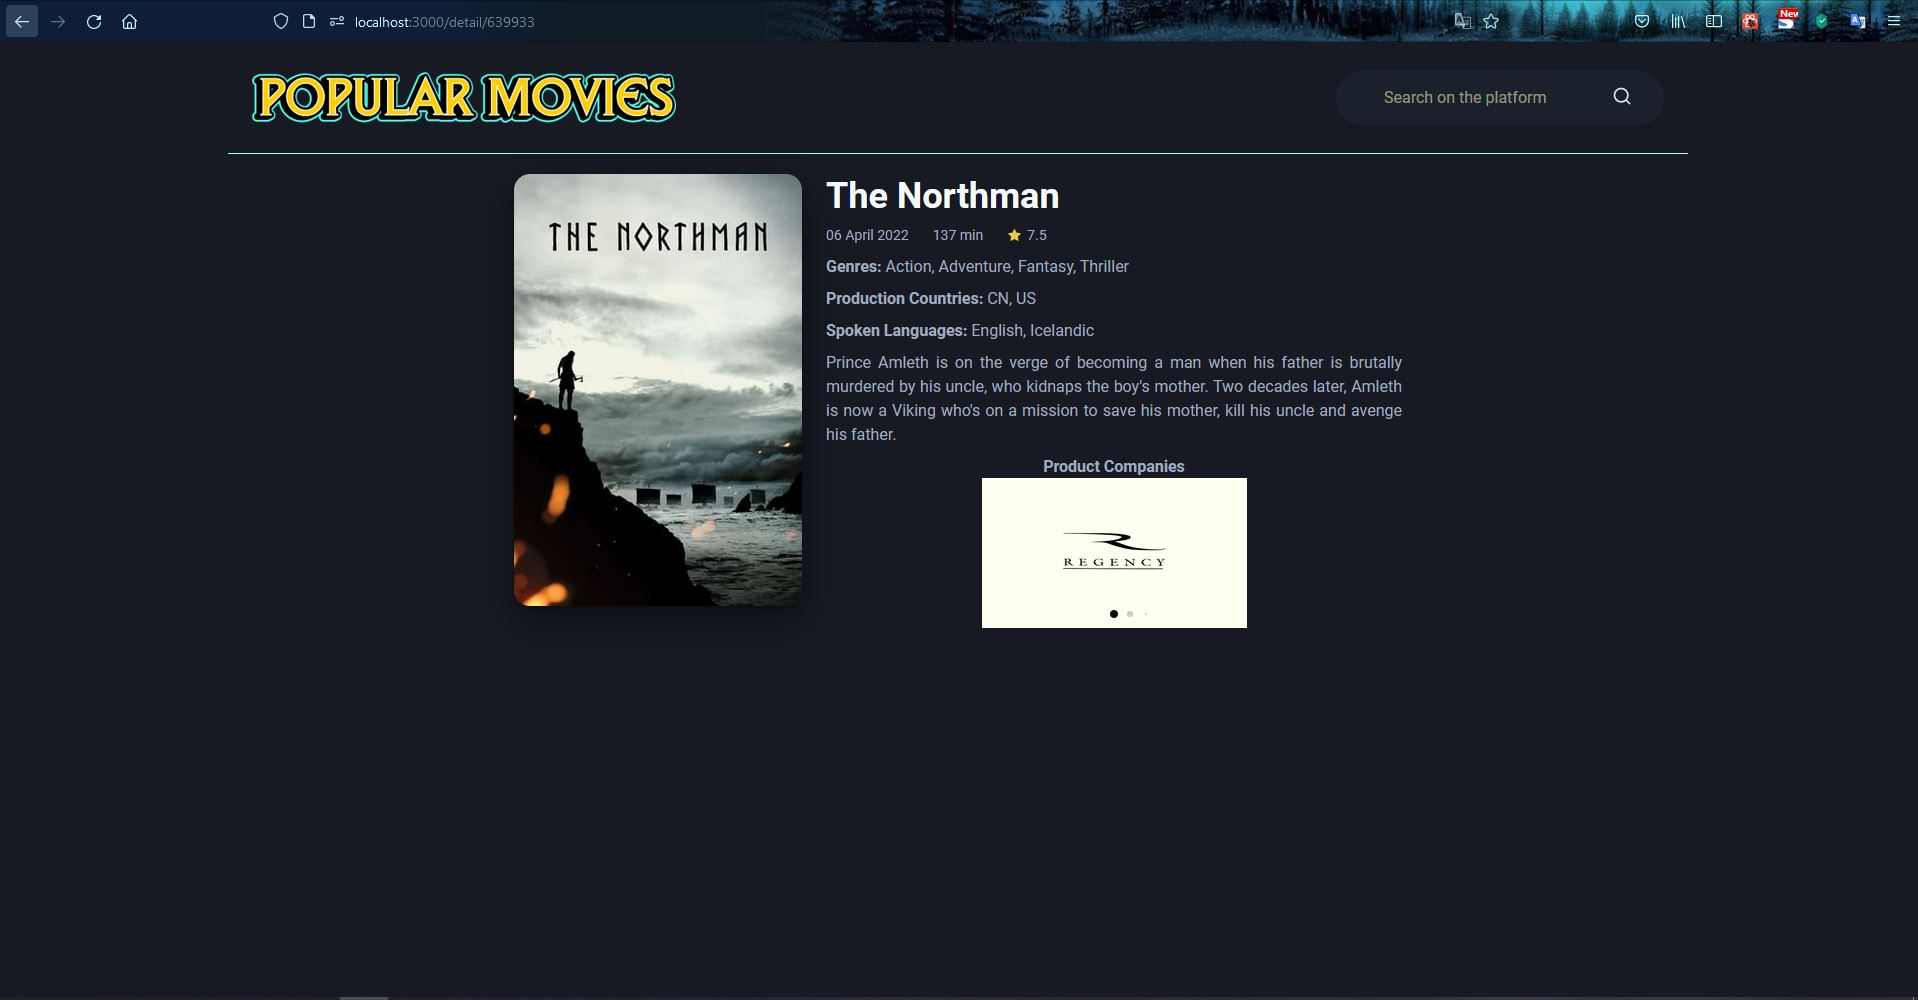
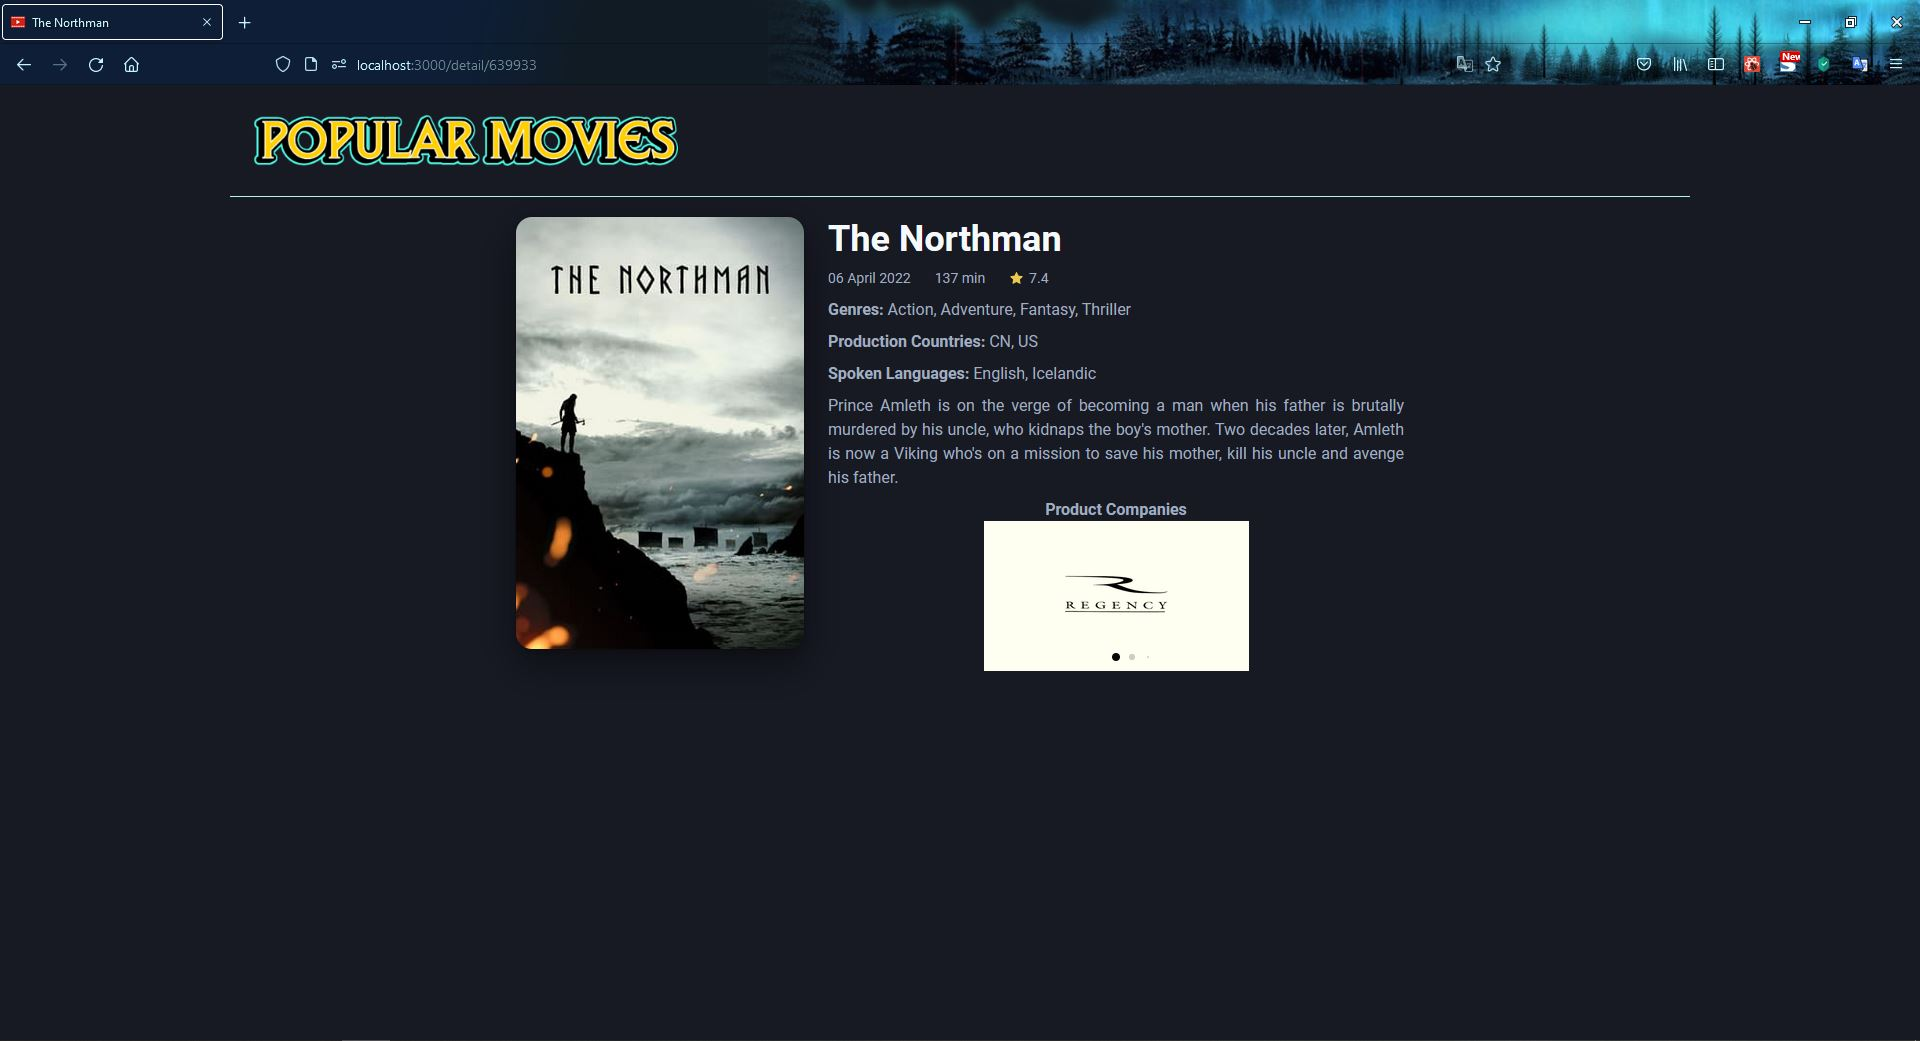
Melhoria no header e atualização na imagem

diff --git a/src/components/Header/index.tsx b/src/components/Header/index.tsx
@@ -1,8 +1,12 @@
 import { Flex } from "@chakra-ui/react";
+import { useRouter } from "next/router";
 import { Logo } from "./Logo";
 import { SearchBox } from "./SearchBox";
 
 export function Header() {
+    const { asPath } = useRouter()
+    const isDetail = asPath.includes('detail') 
+
     return(
         <Flex
             as="header"
@@ -23,7 +27,7 @@ export function Header() {
             borderBottomColor="teal.100"
         >
             <Logo/>
-            <SearchBox/>
+            {!isDetail && <SearchBox/>}
         </Flex>
     )
 }
